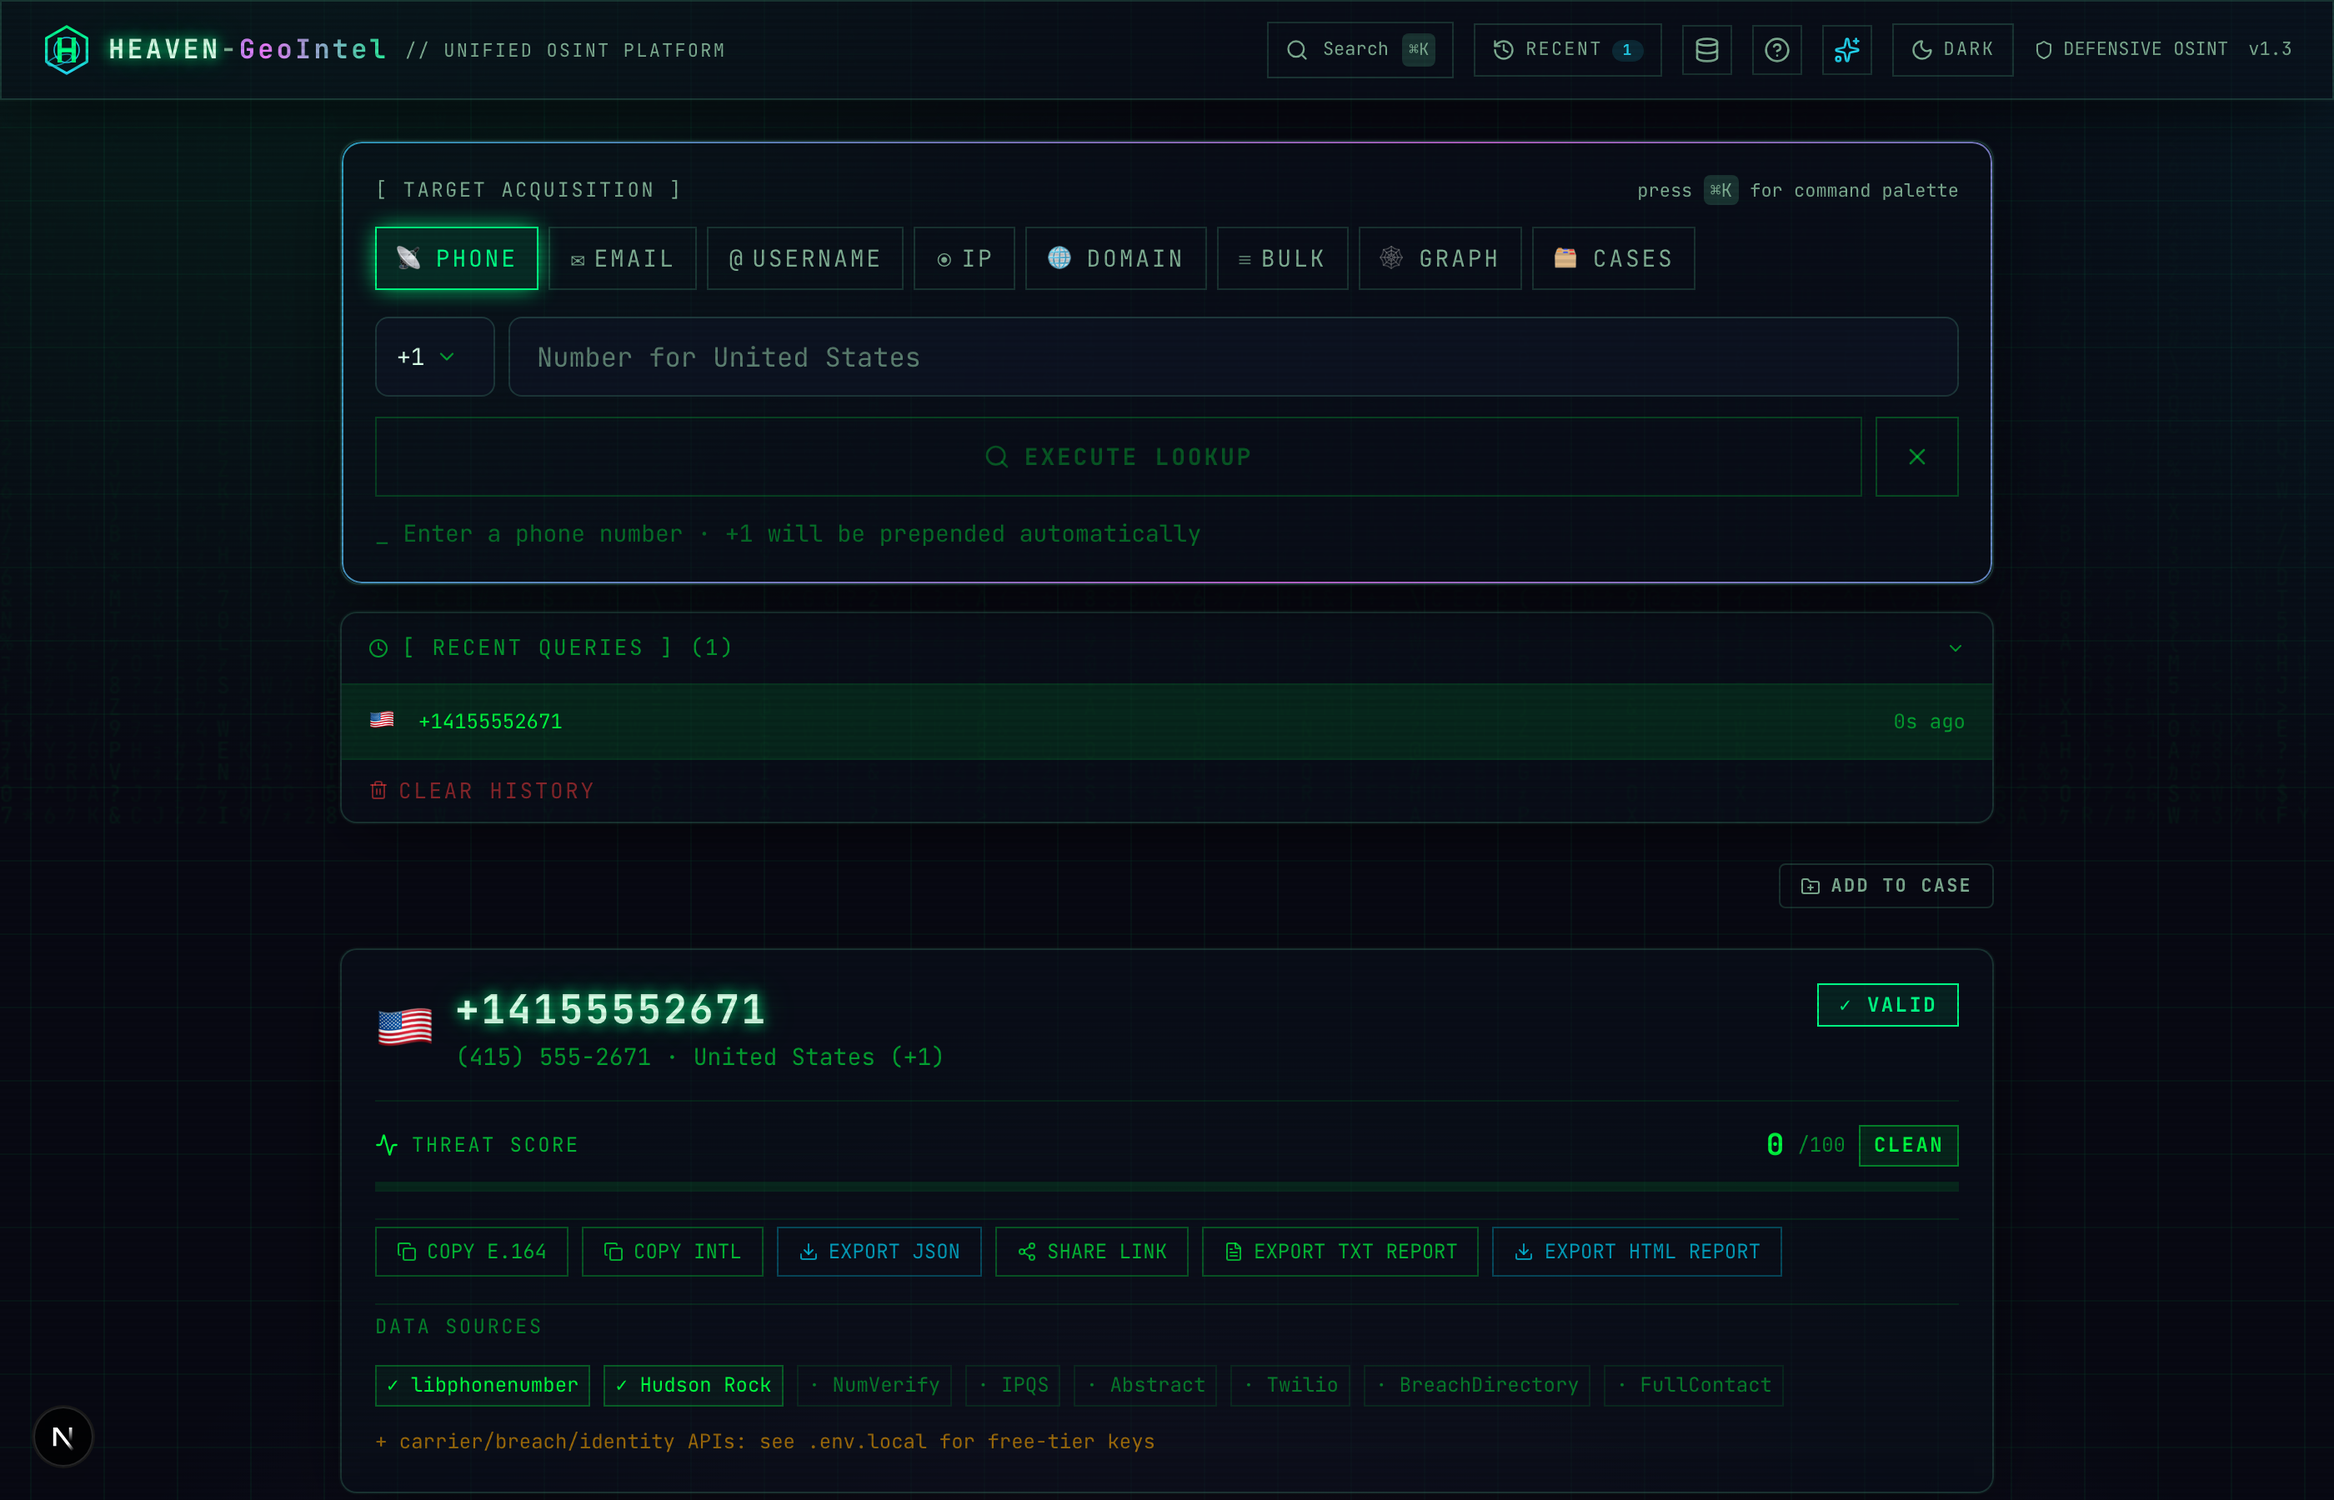
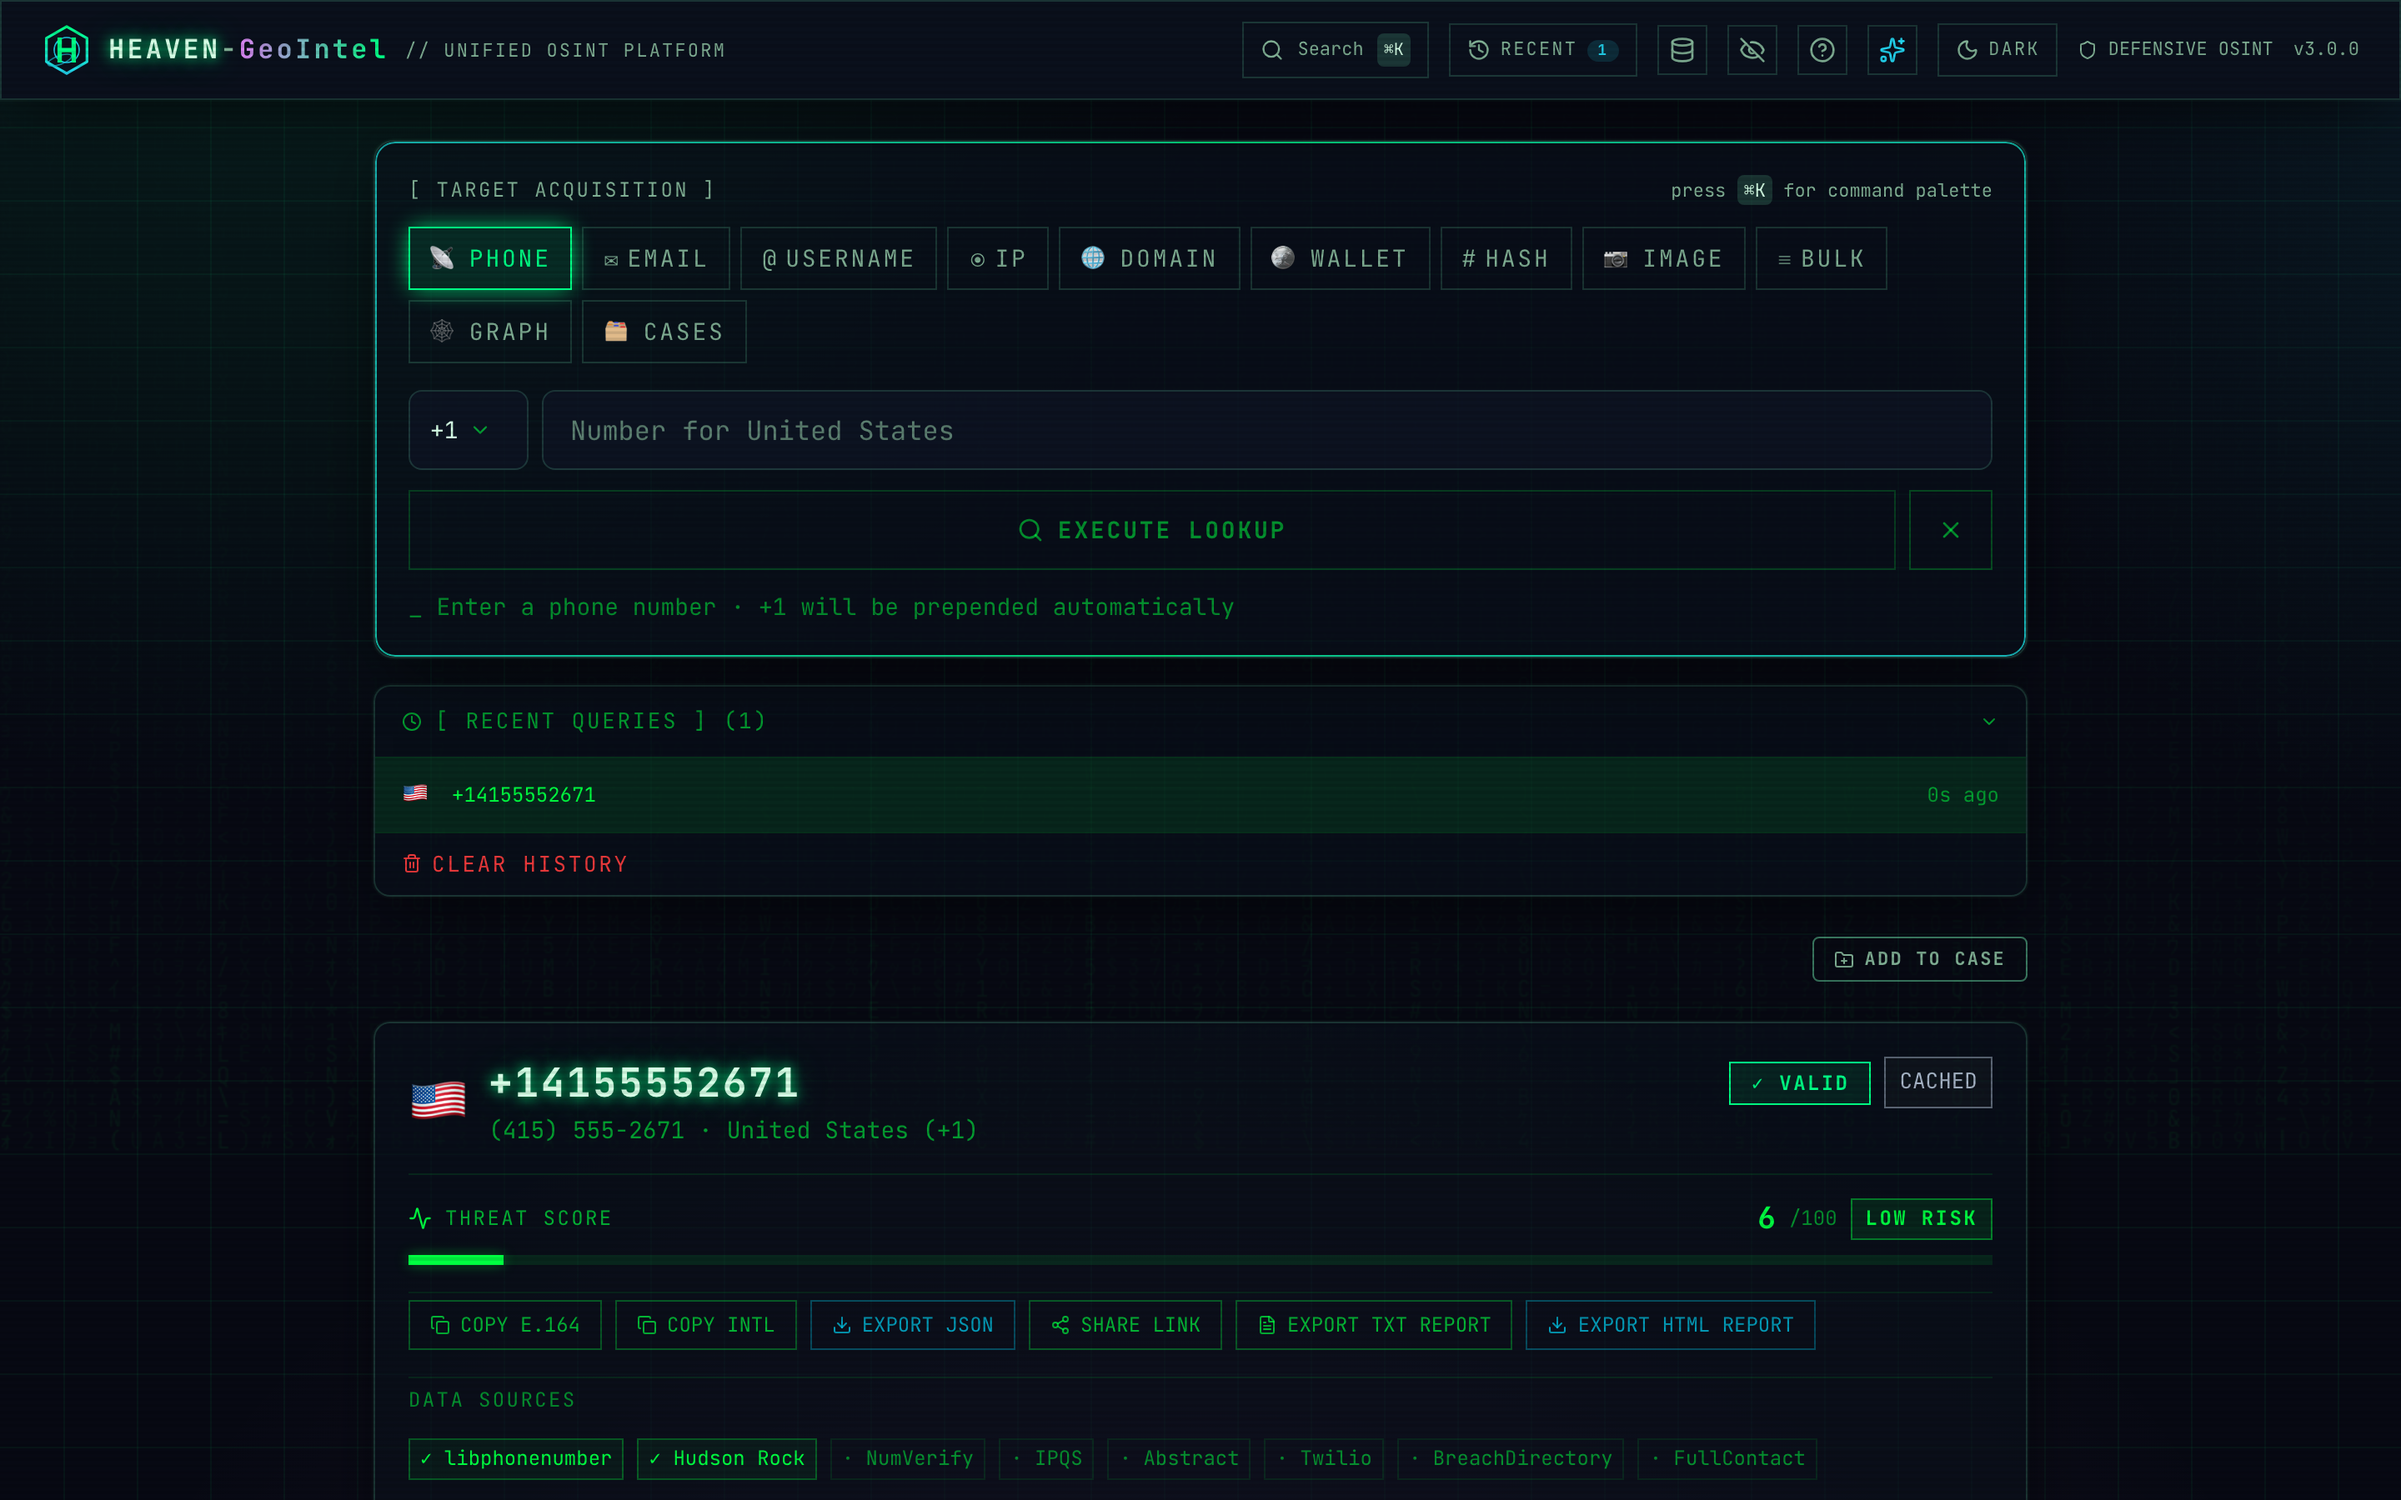
Add screenshot of number intel feature

diff --git a/README.md b/README.md
@@ -34,27 +34,37 @@
 <table>
   <tr>
     <td width="50%" align="center" valign="top">
-      <img src="./docs/screenshots/phone-results.png" alt="Phone OSINT result dashboard" width="100%"/>
-      <br/><sub><b>Phone dashboard.</b> Carrier, line type, country and threat score, all computed offline.</sub>
+      <img src="./docs/screenshots/phone-results.png" alt="Phone OSINT result dashboard with the mode bar, threat score and exports" width="100%"/>
+      <br/><sub><b>Phone dashboard.</b> All eleven modes across the top, and any number scored offline the moment you run it.</sub>
     </td>
     <td width="50%" align="center" valign="top">
-      <img src="./docs/screenshots/osint-pivots.png" alt="OSINT pivot matrix of reverse-lookup, messaging and search links" width="100%"/>
-      <br/><sub><b>OSINT pivots.</b> 37 reverse-lookup, messaging and search links, deduplicated across sources.</sub>
+      <img src="./docs/screenshots/osint-pivots.png" alt="OSINT pivot matrix of reverse-lookup, messaging and search links with access-tier filters" width="100%"/>
+      <br/><sub><b>OSINT pivots.</b> Thirty-seven reverse-lookup, messaging and spam links, filtered by access tier.</sub>
     </td>
   </tr>
   <tr>
     <td width="50%" align="center" valign="top">
-      <img src="./docs/screenshots/breach-intel.png" alt="Credential breach and infostealer search" width="100%"/>
-      <br/><sub><b>Breach and infostealer.</b> One-click lookups across free credential databases and Hudson Rock.</sub>
+      <img src="./docs/screenshots/breach-intel.png" alt="Unified breach view merging results across sources above the free credential lookups" width="100%"/>
+      <br/><sub><b>Unified breach view.</b> One row per breach, merged across every source that answered, over the free no-key lookups.</sub>
     </td>
     <td width="50%" align="center" valign="top">
-      <img src="./docs/screenshots/bulk-mode.png" alt="Bulk lookup mode" width="100%"/>
-      <br/><sub><b>Bulk mode.</b> Score up to 25 numbers in one pass, then export the table.</sub>
+      <img src="./docs/screenshots/number-intel.png" alt="Number anatomy panel showing country code, area code, subscriber digits and standard formats" width="100%"/>
+      <br/><sub><b>Number anatomy.</b> Country code, area code and subscriber digits broken out, with libphonenumber checks and standard formats.</sub>
+    </td>
+  </tr>
+  <tr>
+    <td width="50%" align="center" valign="top">
+      <img src="./docs/screenshots/command-palette.png" alt="Command palette listing all eleven lookup modes" width="100%"/>
+      <br/><sub><b>Command palette.</b> Press ⌘K to reach any of the eleven modes, from phone and email to wallet, hash and image.</sub>
+    </td>
+    <td width="50%" align="center" valign="top">
+      <img src="./docs/screenshots/bulk-mode.png" alt="Bulk mode scoring a batch of phone numbers offline" width="100%"/>
+      <br/><sub><b>Bulk mode.</b> Paste up to twenty-five numbers, score them offline in one pass, then export the table.</sub>
     </td>
   </tr>
 </table>
 
-<sub>To refresh these, run <code>npm run dev</code> in one terminal and <code>npm run screenshots</code> in another. The <a href="./scripts/capture-screenshots.mjs">capture script</a> drives your system Chrome and writes high-DPI PNGs into <a href="./docs/screenshots/"><code>docs/screenshots/</code></a>.</sub>
+<sub>Every shot is captured at one fixed viewport, so the grid stays even. To refresh them, run <code>npm run dev</code> in one terminal and <code>npm run screenshots</code> in another. The <a href="./scripts/capture-screenshots.mjs">capture script</a> drives your system Chrome and writes high-DPI PNGs into <a href="./docs/screenshots/"><code>docs/screenshots/</code></a>.</sub>
 
 ---
 

diff --git a/docs/screenshots/README.md b/docs/screenshots/README.md
@@ -1,13 +1,21 @@
 # Screenshots
 
-The main README references the four PNGs in this folder:
+The main README references the six PNGs in this folder. Every one is captured at
+the same fixed viewport (1440x900 at 2x, so 2880x1800), which is what keeps the
+README grid even instead of ragged.
 
 | Filename | What it shows |
 |----------|---------------|
-| `phone-results.png`  | Top of the phone-results dashboard: header, threat score, data-source strip |
-| `osint-pivots.png`   | The OSINT Pivot Matrix: filter chips + categorised links with access badges |
-| `breach-intel.png`   | The credential-breach card: one-click free breach-database lookups |
-| `bulk-mode.png`      | The BULK tab with sample phone numbers pasted in |
+| `phone-results.png`   | Top of the phone dashboard: mode bar, result header, threat score, exports and data sources |
+| `osint-pivots.png`    | The OSINT Pivot Matrix: access-tier filter chips over categorised reverse-lookup links |
+| `breach-intel.png`    | The unified breach view (one row per breach, merged across sources) above the free no-key lookups |
+| `number-intel.png`    | Number anatomy: country code, area code and subscriber digits with libphonenumber checks and standard formats |
+| `command-palette.png` | The Ctrl/Cmd-K command palette listing all eleven modes |
+| `bulk-mode.png`       | The BULK tab with sample numbers pasted in and the offline result table below |
+
+All six come from offline-deterministic views (the phone flow is computed locally,
+the palette and bulk table need no network), so they render the same on any
+machine and never capture an upstream error.
 
 ## Regenerate
 
